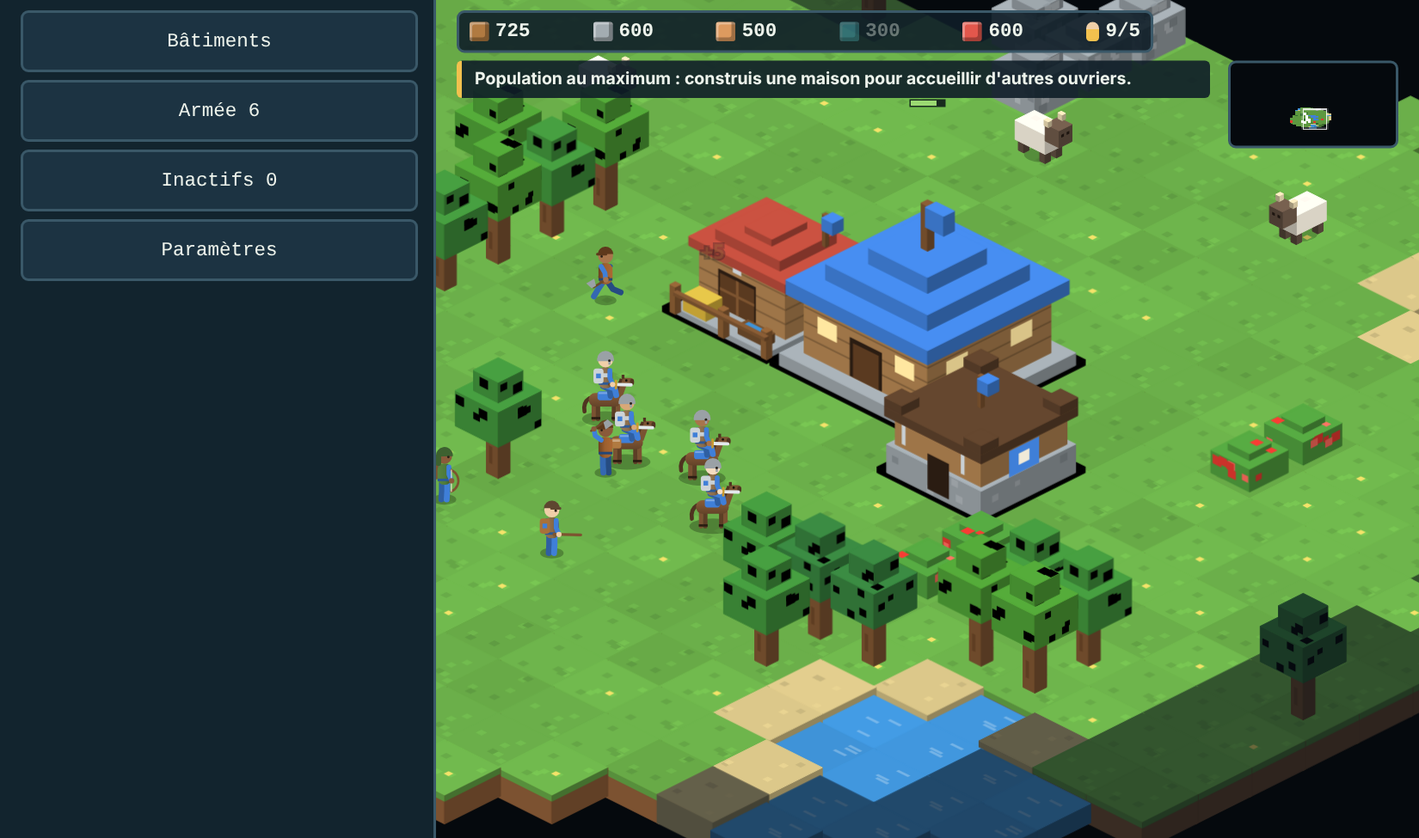
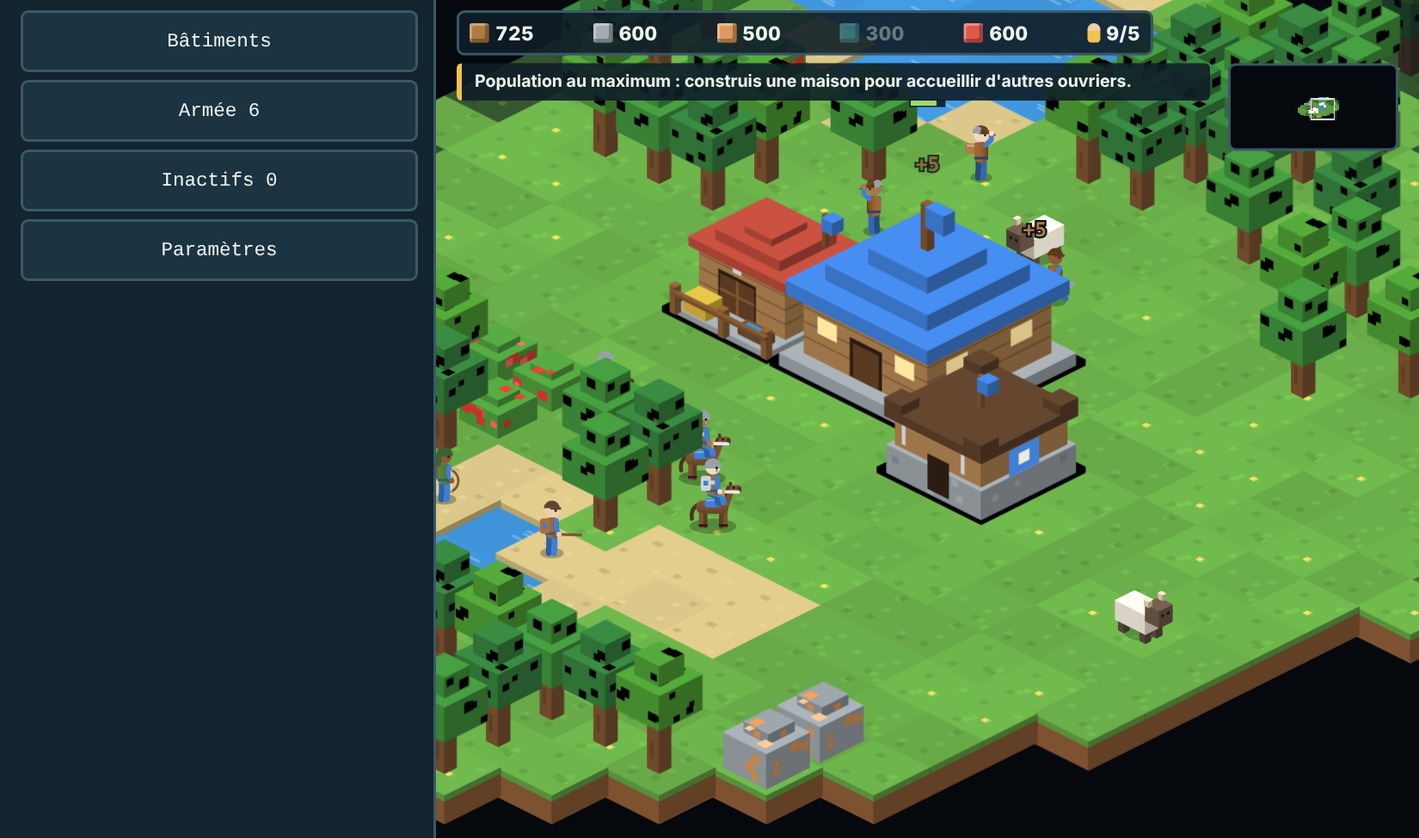
Age of Blocks v5 : portes anti-ennemis, démolition, ralliement, alerte, pause/vitesse, lisibilité
- Portes franchissables par les alliés seulement (les remparts protègent vraiment)
- Retour auto au menu Bâtiments après construction
- Démolir un bâtiment (bouton en bas du panneau, remboursement 50 %)
- Point de ralliement pour caserne et écurie
- Bouton d'alerte qui recentre sur une attaque
- Pause et vitesse de jeu en solo
- Police des chiffres plus lisible, distance de départ augmentée
- README et captures régénérés depuis la v5

Claude-Session: https://claude.ai/code/session_01U1guUDRCTVFEwbGBvx3DgA

diff --git a/index.html b/index.html
@@ -23,7 +23,7 @@ h2,h3,p{margin:0}
 #top>*{pointer-events:auto}
 #res{max-width:520px;display:flex;justify-content:space-between;gap:4px;background:var(--panel);border:2px solid var(--line);border-radius:6px;padding:6px 8px}
 .chip{display:flex;align-items:center;gap:5px;min-width:0}
-.chip b{font-family:var(--display);font-weight:700;font-size:15px;font-variant-numeric:tabular-nums}
+.chip b{font-family:var(--body);font-weight:800;font-size:15px;font-variant-numeric:tabular-nums;letter-spacing:.02em}
 .chip.locked{opacity:.38}
 .cube,.d{display:inline-block;flex:none;background:var(--c);border-radius:2px;box-shadow:inset -3px -3px 0 rgba(0,0,0,.28),inset 2px 2px 0 rgba(255,255,255,.32)}
 .cube{width:15px;height:15px}
@@ -115,7 +115,7 @@ h2,h3,p{margin:0}
   <div id="dock">
     <div id="panel" hidden></div>
     <div id="bmenu" hidden><div class="mh"><h2>Bâtiments</h2><button class="act" data-a="menu" data-v="">Fermer</button></div><div id="build"></div></div>
-    <div id="bar"><button class="sbtn" data-a="menu" data-v="build">Bâtiments</button><button class="sbtn" id="army" data-a="army">Armée 0</button><button class="sbtn" id="idle" data-a="idle">Inactifs 0</button><button class="sbtn" data-a="menu" data-v="settings">Paramètres</button></div>
+    <div id="bar"><button class="sbtn" data-a="menu" data-v="build">Bâtiments</button><button class="sbtn" id="army" data-a="army">Armée 0</button><button class="sbtn" id="idle" data-a="idle">Inactifs 0</button><button class="sbtn alert" id="alert" data-a="alert" hidden>⚠ Alerte</button><button class="sbtn" data-a="menu" data-v="settings">Paramètres</button></div>
   </div>
   <div id="modal" hidden><div id="sheet"></div></div>
   <div id="home">
@@ -146,7 +146,7 @@ h2,h3,p{margin:0}
 <script>
 (()=>{
 'use strict';
-const ZU=34,MAXPOP=50,SPEED=2.3,WHP=50,SAVE='age-of-blocks-v31',SAVE_V3='age-of-blocks-v3',SAVE_DUO='age-of-blocks-v31-duo',PREF='age-of-blocks-prefs';
+const ZU=34,MAXPOP=50,SPEED=2.3,WHP=50,SAVE='age-of-blocks-v5',SAVE_V3='age-of-blocks-v3',SAVE_DUO='age-of-blocks-v31-duo',PREF='age-of-blocks-prefs';
 const PEER_PREFIX='ageofblocks31-',PEERJS=['https://unpkg.com/peerjs@1.5.4/dist/peerjs.min.js','https://cdn.jsdelivr.net/npm/peerjs@1.5.4/dist/peerjs.min.js'];
 const MIN_PLAYER_DIST=24; // distance minimale en blocs entre deux points de départ (futur multijoueur)
 const $=s=>document.querySelector(s);
@@ -355,8 +355,8 @@ function tryGen(bio,seed,players){const R=rng(seed),T=N*N,ter=new Array(T).fill(
  const noise=sc=>{const n=Math.ceil(N/sc)+3,gr=[];for(let i=0;i<n*n;i++)gr.push(R());return(x,y)=>{const fx=x/sc,fy=y/sc,ix=fx|0,iy=fy|0,ax=fx-ix,ay=fy-iy,sx=ax*ax*(3-2*ax),sy=ay*ay*(3-2*ay),a=gr[iy*n+ix],b=gr[iy*n+ix+1],c=gr[(iy+1)*n+ix],d=gr[(iy+1)*n+ix+1];return a+(b-a)*sx+(c-a)*sy+(a-b-c+d)*sx*sy}};
  const n1=noise(7),n2=noise(5),n3=noise(3);
  // points de départ : aléatoires, loin du bord, espacés d'au moins MIN_PLAYER_DIST entre joueurs
- const mg=Math.max(10,(N*.22)|0),starts=[];
- for(let k=0;k<800&&starts.length<players;k++){const x=mg+((R()*(N-2*mg))|0),y=mg+((R()*(N-2*mg))|0);if(starts.every(s=>Math.hypot(s[0]-x,s[1]-y)>=MIN_PLAYER_DIST))starts.push([x,y])}
+ const mg=Math.max(10,(N*.22)|0),minPD=Math.max(30,Math.round(N*.55)),starts=[];
+ for(let k=0;k<800&&starts.length<players;k++){const x=mg+((R()*(N-2*mg))|0),y=mg+((R()*(N-2*mg))|0);if(starts.every(s=>Math.hypot(s[0]-x,s[1]-y)>=minPD))starts.push([x,y])}
  if(starts.length<players)return null;
  const C=starts.map(s=>[s[0]+1,s[1]+1]),dist=(x,y)=>{let m=1e9;for(const c of C)m=Math.min(m,Math.hypot(x-c[0],y-c[1]));return m};
  for(let y=0;y<N;y++)for(let x=0;x<N;x++){const i=y*N+x,d=dist(x,y),wv=n1(x,y)*.7+n3(x,y)*.3;
@@ -443,7 +443,8 @@ function computeVis(){VIS.fill(0);
 const visAt=(x,y)=>{const tx=Math.floor(x),ty=Math.floor(y);return tx>=0&&ty>=0&&tx<N&&ty<N&&VIS[ty*N+tx]===1};
 
 /* ---------- chemins ---------- */
-const walk=i=>st.ter[i]!==2&&(st.obj[i]===0||st.obj[i]===7);
+const gateOK=i=>{const b=bById(st.bid[i]);return !!b&&!b.foe&&b.o===PL.o};
+const walk=i=>st.ter[i]!==2&&(st.obj[i]===0||(st.obj[i]===7&&gateOK(i)));
 const walkA=(x,y)=>{x=Math.floor(x);y=Math.floor(y);return x>=0&&y>=0&&x<N&&y<N&&st.ter[y*N+x]!==2&&st.obj[y*N+x]===0};
 function findPath(sx,sy,goal){sx=clamp(sx|0,0,N-1);sy=clamp(sy|0,0,N-1);mk++;let h=0,t=0;const s=sy*N+sx;Q[t++]=s;MK[s]=mk;PV[s]=-1;
  while(h<t){const c=Q[h++],cx=c%N,cy=(c/N)|0;
@@ -512,7 +513,7 @@ function finish(b){b.prog=1;b.done=true;if(b.type==='gate')st.obj[b.y*N+b.x]=7;
 /* combat */
 function hurtAnimal(a,d,w){if(a.dead)return;a.hp-=d;sfxAll('hit',a.x,a.y);if(w&&a.type!=='sheep')a.tg=w.id;
  if(a.hp<=0){if(a.type==='zombie'){st.an.splice(st.an.indexOf(a),1);return}a.hp=0;a.dead=true;a.fol=0;a.tg=0;a.mv=0;for(const o of st.wk)if(o.job&&o.job.k==='hunt'&&o.job.a===a.id)o.tm=0}}
-function hurtWorker(w,d,a){const sv=PL;PL=PP(w.o);w.hp-=d;w.hit=st.t;sfxAll('hit',w.x,w.y);
+function hurtWorker(w,d,a){const sv=PL;PL=PP(w.o);w.hp-=d;w.hit=st.t;PL.alert={x:w.x,y:w.y,t:st.t};sfxAll('hit',w.x,w.y);
  if(w.hp<=0){release(w);st.wk.splice(st.wk.indexOf(w),1);if(sel&&sel.k==='w'&&sel.id===w.id)sel=null;panelSig='';toastTo(PL.o,'Un ouvrier a été tué.');PL=sv;return}
  const beast=!!AN[a.type];
  if(w.st==='fight'||w.st==='flee'||w.st==='hide'||(beast&&w.job&&w.job.k==='hunt'&&w.job.a===a.id)){PL=sv;return}
@@ -527,8 +528,10 @@ function removeBuilding(b,by){const d=B[b.type];for(let j=0;j<d.h;j++)for(let i=
  if(b.foe){if(by>=0){const p=PP(by);p.res.iron+=60;p.res.diamond+=30;floatTo(by,{x:b.x+1,y:b.y+1,z:1.2,s:'+60 fer',c:RCOL.iron,t:0});floatTo(by,{x:b.x+1,y:b.y+1,z:1.9,s:'+30 diamant',c:RCOL.diamond,t:-.3});toastTo(by,'Cabane de zombies détruite ! Tu récupères 60 fer et 30 diamant.');sfxTo(by,'chime')}}
  else if(b.type==='centre'){if(st.p.length>1)endGame(b.o===0?1:0,'centre');else{PP(b.o).lost=true;st.over=true;play('lose');showEnd('lose')}}
  else toastTo(b.o,d.n+(by>=0&&by!==b.o?' : bâtiment détruit par l\'adversaire.':' : bâtiment détruit par les zombies.'))}
+function demoBuilding(b){const d=B[b.type];for(let j=0;j<d.h;j++)for(let i=0;i<d.w;i++){const k=(b.y+j)*N+b.x+i;st.obj[k]=0;st.bid[k]=0}
+ st.bl.splice(st.bl.indexOf(b),1);if(sel&&sel.k==='b'&&sel.id===b.id)sel=null;panelSig='';miniT=9;for(const w of st.wk)if(w.job&&w.job.b===b.id)idle(w);if(b.type==='pen')for(const a of st.an)if(a.pen===b.id)a.pen=0}
 function hurtBuilding(b,d,by){if(by===undefined)by=-1;b.hp-=d;sfxAll('hit',b.x+1,b.y+1);if(b.hp<=0)return removeBuilding(b,by);
- if(!b.foe){const p=PP(b.o);if(st.t-(p.atkT||-99)>12){p.atkT=st.t;toastTo(b.o,B[b.type].n+(by>=0?' : ton adversaire l\'attaque !':' : des zombies l\'attaquent ! Envoie tes soldats.'))}}}
+ if(!b.foe){const p=PP(b.o);p.alert={x:b.x+1,y:b.y+1,t:st.t};if(st.t-(p.atkT||-99)>12){p.atkT=st.t;toastTo(b.o,B[b.type].n+(by>=0?' : ton adversaire l\'attaque !':' : des zombies l\'attaquent ! Envoie tes soldats.'))}}}
 function endGame(win,why){if(st.over)return;st.over=true;st.winner=win;st.why=why;for(const p of st.p){p.won=p.o===win;p.lost=p.o!==win}
  try{localStorage.removeItem(st.mp?SAVE_DUO:SAVE)}catch(e){}showEndMP(win===me,why)}
 function resume(w){w.tg=0;w.path=null;if(w.job&&w.job.k!=='move')goJob(w);else idle(w)}
@@ -612,7 +615,7 @@ function trainUnit(t,b){const T=UT[t];if(PL.tier<T.tr)return false;
  else if(popUsed()>=popCap()){toastTo(PL.o,popCap()>=MAXPOP?'Population maximale atteinte.':'Plus de place : construis une maison.');return false}
  if(!afford(T.cost)){toastTo(PL.o,T.n+' : il manque '+RES.filter(r=>T.cost[r]>PL.res[r]).map(r=>(T.cost[r]-Math.floor(PL.res[r]))+' '+RN[r]).join(', ')+'.');return false}
  pay(T.cost);PL.uq.push({t,b:b.id});panelSig='';return true}
-let visT=0;
+let visT=0,demoId=0,rallyFor=0,gspeed=1;
 function step(dt){if(st.over)return;st.t+=dt;const f=(N/48)**2;
  for(let i=st.wk.length-1;i>=0;i--){const w=st.wk[i];if(!w)continue;PL=PP(w.o);upW(w,dt)}
  PL=ME();for(let i=st.an.length-1;i>=0;i--){const a=st.an[i];if(a)upA(a,dt)}
@@ -620,7 +623,7 @@ function step(dt){if(st.over)return;st.t+=dt;const f=(N/48)**2;
  PL=ME();if(st.over)return;
  for(let i=0;i<st.un.length;i++){const a=st.un[i];if(a.path)continue;for(let j=i+1;j<st.un.length;j++){const b=st.un[j];if(b.path)continue;let dx=b.x-a.x,dy=b.y-a.y;const d=Math.hypot(dx,dy);if(d<.5){if(d<.01){dx=Math.random()-.5;dy=Math.random()-.5}const q=.6*dt/(Math.hypot(dx,dy)||1);if(walkA(b.x+dx*q,b.y+dy*q)){b.x+=dx*q;b.y+=dy*q}if(walkA(a.x-dx*q,a.y-dy*q)){a.x-=dx*q;a.y-=dy*q}}}}
  for(const pl of st.p){PL=pl;
-  if(PL.uq.length){PL.ut+=dt;const q=PL.uq[0],need=UT[q.t].time;if(PL.ut>=need){if(q.t==='golem'||popNow()<popCap()){const b=bById(q.b)||centre();if(b){const p=spotAround(b)||[b.x,b.y+B[b.type].h];st.un.push(mkUnit(q.t,p[0]+.5,p[1]+.5));toastTo(PL.o,UT[q.t].n+' : prêt.');sfxTo(PL.o,'ready')}PL.uq.shift();PL.ut=0;panelSig=''}else PL.ut=need}}
+  if(PL.uq.length){PL.ut+=dt;const q=PL.uq[0],need=UT[q.t].time;if(PL.ut>=need){if(q.t==='golem'||popNow()<popCap()){const b=bById(q.b)||centre();if(b){const p=spotAround(b)||[b.x,b.y+B[b.type].h];const nu=mkUnit(q.t,p[0]+.5,p[1]+.5);st.un.push(nu);if(b.rx!=null&&nu.type!=='golem'){const rx=clamp(b.rx,0,N-1),ry=clamp(b.ry,0,N-1),pa=findPath(Math.floor(nu.x),Math.floor(nu.y),(x,y)=>x===rx&&y===ry);if(pa&&pa.length){nu.path=pa;nu.mv=true}}toastTo(PL.o,UT[q.t].n+' : prêt.');sfxTo(PL.o,'ready')}PL.uq.shift();PL.ut=0;panelSig=''}else PL.ut=need}}
   if(PL.tq>0){PL.tt+=dt;if(PL.tt>=8){if(popNow()<popCap()&&centre()){spawnWorker();PL.tq--;PL.tt=0}else PL.tt=8}}
   if(PL.rs){PL.rs.t+=dt;if(PL.rs.t>=TECH[PL.tier].t){const nb=BLIST.filter(t=>B[t].tr===PL.tier+1).map(t=>B[t].n);
    const m0=st.bl.filter(b=>b.o===PL.o).map(b=>maxHp(b));PL.tier++;st.bl.filter(b=>b.o===PL.o).forEach((b,i)=>{b.hp=Math.round(b.hp*maxHp(b)/m0[i])});
@@ -667,6 +670,7 @@ function pickTile(fx,fy){for(let d=2.25;d>=0;d-=.125){const x=Math.floor(fx+d),y
 function tileAt(px,py){const r=cv.getBoundingClientRect(),ux=(px-r.width/2)/cam.z+cam.x,uy=(py-r.height/2)/cam.z+cam.y;return[(ux/32+uy/16)/2,(uy/16-ux/32)/2,r]}
 function setGhost(px,py){const[fx,fy]=tileAt(px,py),d=B[place.type],x=Math.floor(fx-(d.w-1)/2),y=Math.floor(fy-(d.h-1)/2);if(place.x!==x||place.y!==y){place.x=x;place.y=y;panelSig=''}}
 function onTap(px,py){const[fx,fy,r]=tileAt(px,py),cw=r.width,ch=r.height;
+ if(rallyFor){const b=bById(rallyFor);if(b&&b.o===me){cmd('rally',{b:rallyFor,x:Math.floor(fx),y:Math.floor(fy)});pings.push({x:Math.floor(fx)+.5,y:Math.floor(fy)+.5,t:0});toast('Point de ralliement défini.')}rallyFor=0;panelSig='';return}
  if(place){setGhost(px,py);place.pin=true;if(B[place.type].chain)confirmPlace();panelSig='';return}
  const hit=(e,up)=>{const sx=((e.x-e.y)*32-cam.x)*cam.z+cw/2,sy=((e.x+e.y)*16-cam.y-up)*cam.z+ch/2;return Math.hypot(sx-px,sy-py)};
  const army=sel&&sel.k==='u'?sel.ids.filter(id=>{const u=uById(id);return u&&u.o===me&&u.type!=='golem'}):[];
@@ -695,7 +699,7 @@ function confirmPlace(){const d=B[place.type];if(place.x===null)return toast('Ch
  if(!validPlace(place.type,place.x,place.y))return toast('Emplacement impossible : il faut des cases libres, explorées et hors de l\'eau.');
  if(!afford(d.cost))return toast('Plus assez de ressources pour : '+d.n+'.');
  const b=cmd('place',{t:place.type,x:place.x,y:place.y,wid:place.w});miniT=9;
- if(d.chain){place.x=null;place.pin=false}else{place=null;menu=null;sel=b&&b.id?{k:'b',id:b.id}:null}panelSig=''}
+ if(d.chain){place.x=null;place.pin=false}else{place=null;menu='build';sel=null}panelSig=''}
 const CMDS={
  order(a){const j=a.job;if(!j||typeof j!=='object')return;
   let w=a.wid?wById(a.wid):null;if(w&&w.o!==PL.o)return;
@@ -721,6 +725,9 @@ const CMDS={
   const n=a.t==='golem'?1:clamp(a.n|0,1,5);for(let i=0;i<n;i++)if(!trainUnit(a.t,b))break},
  repair(a){const b=bById(a.b);if(!b||b.o!==PL.o||!b.done||b.hp>=maxHp(b))return;const r=repRes(b);if(PL.res[r]<1)return toastTo(PL.o,'Il faut du '+RN[r]+' pour réparer ce bâtiment.');
   const w=nearestIdle(b.x+1,b.y+1);if(!w)return toastTo(PL.o,'Aucun ouvrier libre pour réparer. Touche un ouvrier, puis le bâtiment abîmé.');assign(w,{k:'repair',b:b.id});toastTo(PL.o,'Un ouvrier part réparer : '+B[b.type].n.toLowerCase()+'.')},
+ demolish(a){const b=bById(a.b);if(!b||b.o!==PL.o||!b.done||b.type==='centre')return;const d=B[b.type],ref={};for(const r in d.cost)ref[r]=Math.floor(d.cost[r]*.5);demoBuilding(b);for(const r in ref)PL.res[r]+=ref[r];const tx=RES.filter(r=>ref[r]).map(r=>'+'+ref[r]+' '+RN[r]).join(', ');toastTo(PL.o,d.n+' démoli'+(tx?' ('+tx+' récupéré)':'')+'.');sfxTo(PL.o,'tick')},
+ rally(a){const b=bById(a.b);if(!b||b.o!==PL.o||(b.type!=='barracks'&&b.type!=='stable'))return;b.rx=clamp(a.x|0,0,N-1);b.ry=clamp(a.y|0,0,N-1)},
+ rallyoff(a){const b=bById(a.b);if(b&&b.o===PL.o){b.rx=null;b.ry=null}},
  upiron(){if(PL.ironArm||PL.tier<2||!has('barracks'))return;if(!afford(IRONUP))return toastTo(PL.o,'Armures de fer et épées : ressources insuffisantes.');pay(IRONUP);PL.ironArm=true;for(const u of st.un)if(u.o===PL.o&&u.type==='inf')u.hp+=40;toastTo(PL.o,'Tes fantassins s\'équipent d\'armures de fer et d\'épées.');sfxTo(PL.o,'anvil')},
  research(){if(PL.rs||PL.tier>=4||!has('forge'))return;const t=TECH[PL.tier];if(!afford(t.cost))return toastTo(PL.o,t.n+' : ressources insuffisantes.');pay(t.cost);PL.rs={t:0}},
  capture(a){const b=bById(a.b);if(!b||b.o!==PL.o||b.type!=='pen'||!b.done)return;if(st.an.filter(x=>x.pen===b.id&&!x.dead).length>=6)return toastTo(PL.o,'L\'enclos est plein.');
@@ -810,6 +817,7 @@ function render(now){S=cam.z*DPR;const tS=Math.min(S,4.5);
  ctx.lineCap='round';for(const a of arrows){const k=a.t/.25,x=a.x0+(a.x1-a.x0)*k,y=a.y0+(a.y1-a.y0)*k,z0=a.z0||1.8,z=z0-(z0-.4)*k,X=((x-y)*32-cam.x)*S+W/2,Y=((x+y)*16-z*ZU-cam.y)*S+H/2,dx=((a.x1-a.x0)-(a.y1-a.y0))*32,dy=((a.x1-a.x0)+(a.y1-a.y0))*16+(z0-.4)*ZU,L=Math.hypot(dx,dy)||1;
   ctx.strokeStyle='#f4ead2';ctx.lineWidth=1.6*DPR;ctx.beginPath();ctx.moveTo(X,Y);ctx.lineTo(X-dx/L*9*S,Y-dy/L*9*S);ctx.stroke()}
  for(const p of pings){const X=((p.x-p.y)*32-cam.x)*S+W/2,Y=((p.x+p.y)*16-cam.y)*S+H/2,k=p.t/.6;ctx.strokeStyle='rgba(242,193,78,'+(1-k)+')';ctx.lineWidth=2*DPR;ctx.beginPath();ctx.ellipse(X,Y,(8+26*k)*S,(4+13*k)*S,0,0,7);ctx.stroke()}
+ if(sel&&sel.k==='b'){const rb=bById(sel.id);if(rb&&rb.o===me&&rb.rx!=null&&(rb.type==='barracks'||rb.type==='stable')){const X=((rb.rx-rb.ry)*32-cam.x)*S+W/2,Y=((rb.rx+rb.ry+1)*16-cam.y)*S+H/2;ctx.strokeStyle='#f2c14e';ctx.fillStyle='rgba(242,193,78,.6)';ctx.lineWidth=2*DPR;ctx.beginPath();ctx.moveTo(X,Y);ctx.lineTo(X,Y-18*S);ctx.stroke();ctx.beginPath();ctx.moveTo(X,Y-18*S);ctx.lineTo(X+12*S,Y-14*S);ctx.lineTo(X,Y-10*S);ctx.closePath();ctx.fill()}}
  ctx.font='700 '+Math.round(15*DPR)+'px "Pixelify Sans",monospace';ctx.textAlign='center';
  for(const f of floats){const X=((f.x-f.y)*32-cam.x)*S+W/2,Y=((f.x+f.y)*16-cam.y-f.z*ZU-f.t*22)*S+H/2;ctx.globalAlpha=clamp(1.3-f.t,0,1);ctx.lineWidth=3*DPR;ctx.strokeStyle='#0b161d';ctx.strokeText(f.s,X,Y);ctx.fillStyle=f.c;ctx.fillText(f.s,X,Y)}
  ctx.globalAlpha=1;
@@ -886,6 +894,7 @@ function buildUI(){$('#res').innerHTML=RES.map(r=>`<span class="chip" id="c-${r}
 function buildIcons(){for(const t of BLIST){const c=$('#bb-'+t+' canvas'),k=c.getContext('2d'),b=SPR[t].b,sc=Math.min(c.width/(b[2]-b[0]),c.height/(b[3]-b[1]));k.setTransform(1,0,0,1,0,0);k.clearRect(0,0,c.width,c.height);k.translate((c.width-(b[2]-b[0])*sc)/2,(c.height-(b[3]-b[1])*sc)/2);k.scale(sc,sc);k.translate(-b[0],-b[1]);g=k;sprDraw(t,SPR[t],PL.tier);if(t==='pen')sprDraw('penF',SPR.penF,PL.tier)}iconTier=PL.tier}
 let iconTier=-1;
 function hintText(){const myW=st.wk.filter(w=>w.o===me),idleAll=myW.every(w=>w.st==='idle'),wonder=st.bl.find(b=>b.type==='wonder');
+ if(!st.mp&&gspeed===0)return'⏸ Jeu en pause — ouvre les Paramètres pour reprendre.';
  if(PL.won)return'Merveille achevée. Tu peux continuer à bâtir ton village.';
  if(place)return place.x===null?'Glisse le doigt ou la souris sur la carte : le plan te suit, vert si la place est libre.':B[place.type].chain?'Touche chaque case où bâtir, puis « Terminer ».':'Déplace le plan si besoin (deux doigts pour bouger la carte), puis valide.';
  if(st.mp&&st.t<45)return'Partie à deux : détruis le centre du village adverse, ou termine ta Merveille avant ton adversaire.';
@@ -939,13 +948,16 @@ function panelHTML(){
   else if(b.type==='pen'){const n=st.an.filter(a=>a.pen===b.id&&!a.dead).length;h+=`<p>Animaux : <b>${n}/6</b>. ${n>=2?(n<6?'Le troupeau se reproduit.':'Enclos plein.'):'Il en faut deux pour qu\'ils se reproduisent.'}</p><div class="acts"><button class="act go${n>=6?' off':''}" data-a="capture">Capturer un animal sauvage</button><button class="act go${st.an.some(a=>a.pen===b.id)?'':' off'}" data-a="harvest">Récolter un animal</button></div>`}
   else if(b.type==='field'){const n=st.wk.filter(w=>w.job&&w.job.k==='farm'&&w.job.b===b.id).length;h+=`<p>Fermiers : <b>${n}/2</b>${millNear(b)?' · moulin à proximité, +50 %':''}.</p>`}
   else if(b.type==='tower')h+='<p>Portée : 6 blocs.</p>';
+  if((b.type==='barracks'||b.type==='stable'))h+=`<div class="acts"><button class="act${rallyFor===b.id?' on':''}" data-a="rally">${rallyFor===b.id?'Touche la carte pour placer le point':(b.rx!=null?'Déplacer le point de ralliement':'Définir un point de ralliement')}</button>${b.rx!=null?'<button class="act" data-a="rallyoff">Retirer</button>':''}</div>`;
+  if(b.type!=='centre')h+=`<div class="acts"><button class="act${demoId===b.id?' go':''}" data-a="demolish">${demoId===b.id?'Confirmer la démolition':'Démolir'}</button></div>`;
   return h+close}
  if(menu==='settings')return`<div class="mh"><h2>Paramètres</h2><button class="act" data-a="menu" data-v="">Fermer</button></div>
   <h3>Commande des ouvriers</h3><div class="seg"><button class="act${PL.mode==='auto'?' on':''}" data-a="mode" data-v="auto">Automatique<small>l'ouvrier libre le plus proche y va</small></button><button class="act${PL.mode==='manual'?' on':''}" data-a="mode" data-v="manual">Manuel<small>un ouvrier, puis sa cible</small></button></div>
   <h3>Ouvrier attaqué</h3><div class="seg"><button class="act${PL.react==='defend'?' on':''}" data-a="react" data-v="defend">Se défendre<small>riposte avec son outil</small></button><button class="act${PL.react==='flee'?' on':''}" data-a="react" data-v="flee">Fuir au village<small>s'abrite au centre</small></button></div>
   ${st.mp?`<h3>Partie à deux</h3><p>${NET.role==='guest'?'Tu as rejoint la partie.':'Code de la partie : <b>'+esc(NET.code)+'</b>'} · ${NET.ready?'adversaire connecté'+(NET.via==='relay'?' (relais internet)':NET.via==='direct'?' (liaison directe)':''):'adversaire absent'}</p>`:''}
   <h3>Son</h3><div class="seg"><button class="act${prefs.music?' on':''}" data-a="music">Musique<small>${prefs.music?'activée':'coupée'}</small></button><button class="act${prefs.sfx?' on':''}" data-a="sfx">Effets sonores<small>${prefs.sfx?'activés':'coupés'}</small></button></div>
-  <p>Un doigt déplace la carte, deux doigts zooment. Sur PC : glisser et molette ; Maj + glisser (ou clic droit glissé) encadre des soldats.</p>
+  ${!st.mp?`<h3>Vitesse de jeu</h3><div class="seg"><button class="act${gspeed===0?' on':''}" data-a="spd" data-v="0">⏸ Pause</button><button class="act${gspeed===1?' on':''}" data-a="spd" data-v="1">Normal</button><button class="act${gspeed===2?' on':''}" data-a="spd" data-v="2">⏩ Rapide</button></div>`:''}
+   <p>Un doigt déplace la carte, deux doigts zooment. Sur PC : glisser et molette ; Maj + glisser (ou clic droit glissé) encadre des soldats.</p>
   <div class="acts"><button class="act" data-a="menu" data-v="quit">Retour au menu principal</button></div>`;
  if(menu==='quit')return`<h2>Retour au menu principal ?</h2><p>${quitText()}</p><div class="acts"><button class="act go" data-a="home">Oui, quitter</button><button class="act" data-a="menu" data-v="settings">Non, rester</button></div>`;
  return''}
@@ -954,6 +966,8 @@ function updateUI(){if(!st)return;for(const r of RES){$('#r-'+r).textContent=Mat
  $('#c-stone').classList.toggle('locked',PL.tier<1);$('#c-iron').classList.toggle('locked',PL.tier<2);$('#c-diamond').classList.toggle('locked',PL.tier<3);
  $('#r-pop').textContent=popNow()+'/'+popCap();const na=st.un.filter(u=>u.o===me&&SOLDIER(u.type)).length,ab=$('#army');ab.textContent='Armée '+na;ab.hidden=!na&&!has('barracks');
  const ni=st.wk.filter(w=>w.o===me&&w.st==='idle').length,ib=$('#idle');ib.textContent='Inactifs '+ni;ib.classList.toggle('alert',ni>0);
+  const al=ME().alert,ae=$('#alert');if(ae)ae.hidden=!(al&&st.t-al.t<25);
+  if(demoId&&!(sel&&sel.k==='b'&&sel.id===demoId))demoId=0;
  if(iconTier!==PL.tier)buildIcons();
  for(const t of BLIST){const e=$('#bb-'+t);e.hidden=B[t].tr>PL.tier;e.classList.toggle('cur',!!place&&place.type===t);const h=costHTML(B[t].cost),c=$('#bc-'+t);if(c.dataset.h!==h){c.dataset.h=h;c.innerHTML=h}}
  const ht=hintText(),he=$('#hint');if(he.textContent!==ht)he.textContent=ht;
@@ -978,7 +992,12 @@ function act(a,v){
  PL=ME();
  if(a==='build')startPlace(v);
  else if(a==='menu'){menu=v||null;if(menu){sel=null;place=null}panelSig=''}
- else if(a==='ok')confirmPlace();else if(a==='cancel'){place=null;panelSig=''}
+ else if(a==='ok')confirmPlace();else if(a==='cancel'){place=null;menu='build';panelSig=''}
+  else if(a==='spd'){gspeed=+v;panelSig=''}
+  else if(a==='alert'){const al=ME().alert;if(al){cam.x=(al.x-al.y)*32;cam.y=(al.x+al.y)*16;clampCam();pings.push({x:al.x,y:al.y,t:0})}else toast('Aucune attaque récente.')}
+  else if(a==='rally'){const b=sel&&sel.k==='b'&&bById(sel.id);if(b){rallyFor=rallyFor===b.id?0:b.id;menu=null;if(rallyFor)toast('Touche la carte à l\'endroit du ralliement.');panelSig=''}}
+  else if(a==='rallyoff'){const b=sel&&sel.k==='b'&&bById(sel.id);if(b){cmd('rallyoff',{b:b.id});rallyFor=0;panelSig=''}}
+  else if(a==='demolish'){const b=sel&&sel.k==='b'&&bById(sel.id);if(b){if(demoId!==b.id){demoId=b.id;panelSig=''}else{demoId=0;cmd('demolish',{b:b.id})}}}
  else if(a==='desel'){sel=null;panelSig=''}
  else if(a==='mode'||a==='react'){cmd(a,{v});PL[a]=v;panelSig=''}
  else if(a==='music'){prefs.music=!prefs.music;savePrefs();setVol();panelSig=''}
@@ -1387,7 +1406,7 @@ let last=0,uiT=0,svT=0;
 function frame(now){const dt=Math.min(.05,(now-last)/1000||0);last=now;netTick(now);
  if(playing&&st){
   if(NET.role==='guest')guestTick(dt);
-  else if(st.mp?((NET.ready||NET.solo)&&!st.over):($('#modal').hidden||ME().won))step(dt);
+  else if(st.mp){if((NET.ready||NET.solo)&&!st.over)step(dt)}else if($('#modal').hidden||ME().won){for(let i=0;i<gspeed;i++)step(dt)}
   if(st&&NET.role==='host'&&NET.ready){NET.snapT+=dt;if(NET.snapT>=(NET.via==='relay'?.25:.15)){NET.snapT=0;netSend(snapFor())}}
   if(st&&playing){PL=ME();render(now);uiT+=dt;if(uiT>.2){uiT=0;updateUI()}miniT+=dt;if(miniT>.5){miniT=0;drawMini()}svT+=dt;if(svT>15){svT=0;save()}}}
  requestAnimationFrame(frame)}

diff --git a/README.md b/README.md
@@ -59,10 +59,20 @@ La nourriture vient des buissons à baies, des champs, de la chasse et de l'éle
 | Construire | Menu Bâtiments, placer le plan, Valider | Idem |
 | Sélectionner l'armée | Bouton Armée, ou double appui sur un soldat | Idem, ou Maj + glisser pour encadrer |
 
-Dans **Paramètres**, deux réglages :
+Après avoir validé une construction (ou posé une série de murs), le menu des Bâtiments se rouvre tout seul pour enchaîner. Quand tu sélectionnes un bâtiment déjà construit, tu peux le **réparer**, le **démolir** (bouton tout en bas du panneau, à confirmer — tu récupères la moitié des ressources) et, pour la caserne et l'écurie, lui donner un **point de ralliement** où les nouvelles unités se rendront.
+
+Quand un ouvrier ou un bâtiment est attaqué, un bouton **⚠ Alerte** apparaît et recentre la vue sur l'endroit de l'attaque.
+
+### Paramètres
+
+<p align="center">
+  <img src="docs/parametres.png" alt="Menu Paramètres : commande des ouvriers, réaction, son et vitesse de jeu" width="320">
+</p>
 
 - **Commande des ouvriers** : automatique (l'ouvrier libre le plus proche y va) ou manuelle (un ouvrier, puis sa cible).
 - **Ouvrier attaqué** : se défendre avec son outil, ou fuir se réfugier au village.
+- **Vitesse de jeu** (en solo) : Pause, Normal ou Rapide.
+- **Son** : musique et effets sonores.
 
 ## Les bâtiments
 
@@ -77,8 +87,8 @@ Dans **Paramètres**, deux réglages :
 | Carrière | 80 bois | Dépôt de pierre | outils en bois |
 | Moulin | 60 bois, 40 pierre | Dépôt de nourriture, +50 % pour les champs voisins | outils en bois |
 | Caserne | 80 bois, 60 pierre | Forme les soldats | outils en bois |
-| Rempart | 5 pierre par case | Bloque le passage | outils en bois |
-| Porte | 10 bois, 5 pierre | Laisse passer tes ouvriers | outils en bois |
+| Rempart | 5 pierre par case | Bloque le passage de tous | outils en bois |
+| Porte | 10 bois, 5 pierre | Laisse passer tes unités, bloque les ennemis | outils en bois |
 | Tour | 10 bois, 25 pierre | Tire des flèches sur les ennemis à portée | outils en bois |
 | Mine | 60 bois, 60 pierre | Dépôt de fer et de diamant | outils en pierre |
 | Écurie | 100 bois, 40 pierre | Forme les cavaliers | outils en pierre |
@@ -150,7 +160,7 @@ La partie solo est enregistrée automatiquement dans le navigateur. Le bouton **
 
 | Fichier | Contenu |
 |---|---|
-| `index.html` | Le jeu complet (version 4) |
+| `index.html` | Le jeu complet (version 5) |
 | `docs/logo.svg` | Le logo |
 | `docs/*.png` | Les captures d'écran de cette page |
 
@@ -161,6 +171,7 @@ La partie solo est enregistrée automatiquement dans le navigateur. Le bouton **
 - **v3** : caserne, fantassins, archers, promeneur, gardien de fer, cabanes de zombies.
 - **v3.1** : jeu à deux, musique et bruitages.
 - **v4** : mode contre l'ordinateur (IA avec trois niveaux), écurie et cavaliers.
+- **v5** : les portes bloquent les ennemis, démolition et réparation des bâtiments, point de ralliement, bouton d'alerte, pause et vitesse de jeu, chiffres plus lisibles, joueurs plus éloignés au départ.
 
 ---
 
